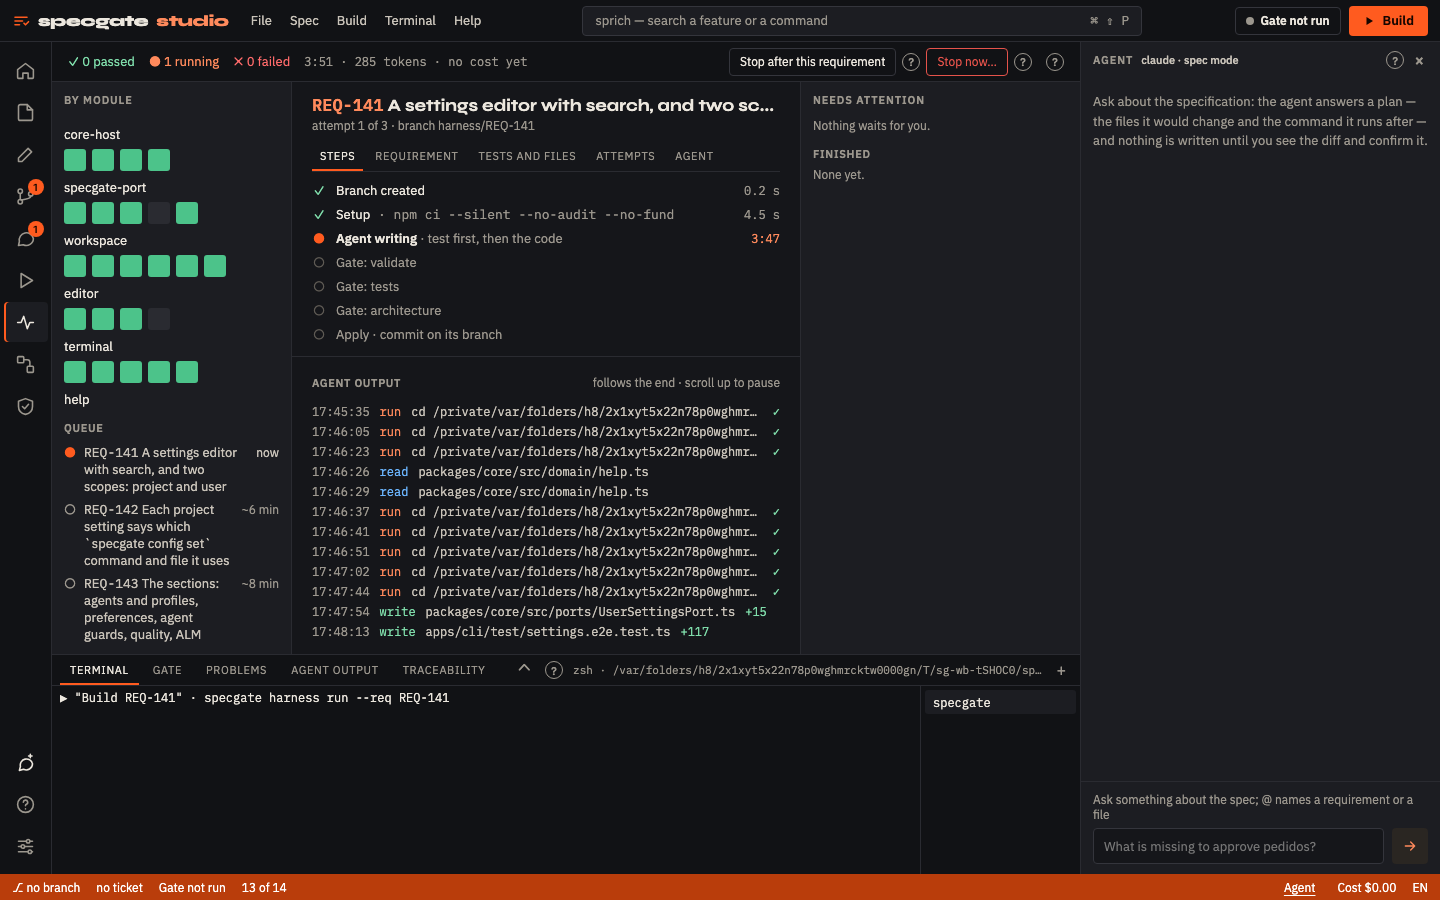
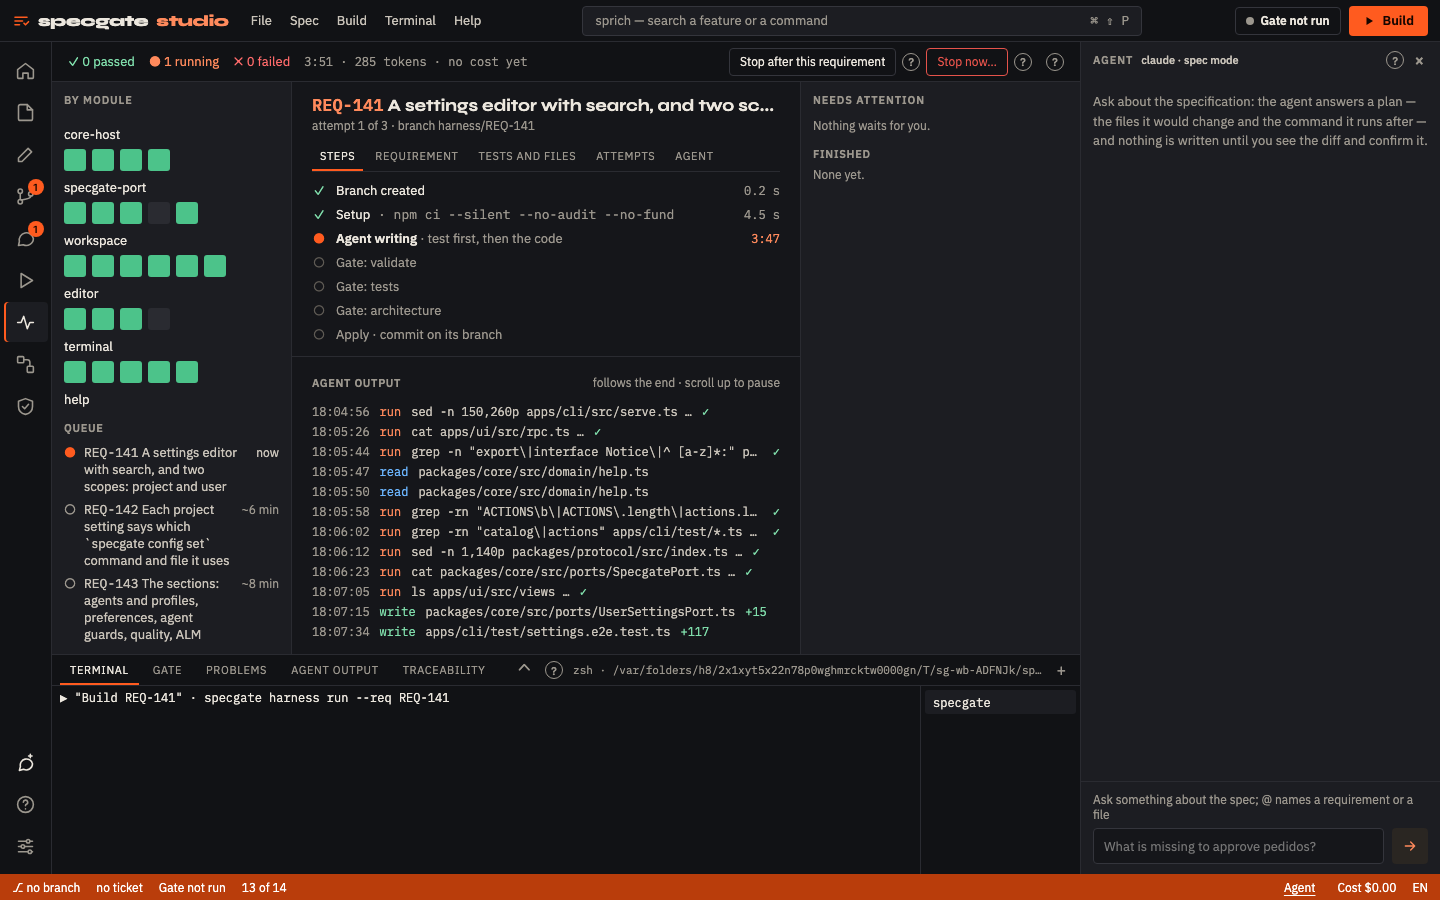
REQ-201: the agent's shell lines read as what ran — the worktree's cd and D= left out, its paths relative, a chain as its first command and …; the whole command on hover and expanded

diff --git a/packages/core/src/domain/live.ts b/packages/core/src/domain/live.ts
@@ -80,7 +80,10 @@ export interface LogLine {
   t: number;
   req: string;
   verb: string;
+  /** What it worked on, as it reads in one row: inside the worktree, relative; a chain, its first command and "…". */
   target: string;
+  /** The target as the agent wrote it, for the hover and the expanded line. */
+  full: string;
   result: "ok" | "error" | null;
   added: number | null;
   removed: number | null;
@@ -503,6 +506,65 @@ function verbOf(kind: string, tool: string): string | null {
 const count = (v: unknown): number | null =>
   typeof v === "number" && Number.isFinite(v) ? v : null;
 
+/** The requirement's worktree in a path or a command: specgate's `…/specgate-harness-REQ-141-e79ed237`. */
+const worktreeOf = (req: string) =>
+  new RegExp(`[^\\s'"=;&|<>]*specgate-harness-${req.replace(/[^\w-]/g, "")}-[0-9a-f]+`, "g");
+
+/** A command split at its top-level `&&`, `||`, `;` and `|`, quotes kept whole. */
+function parts(command: string): string[] {
+  const out: string[] = [];
+  let cur = "";
+  let quote: string | null = null;
+  for (let i = 0; i < command.length; i++) {
+    const c = command[i]!;
+    if (quote) {
+      if (c === "\\" && quote === '"') {
+        cur += c + (command[i + 1] ?? "");
+        i++;
+        continue;
+      }
+      if (c === quote) quote = null;
+      cur += c;
+    } else if (c === "'" || c === '"') {
+      quote = c;
+      cur += c;
+    } else if (c === ";" || c === "|" || (c === "&" && command[i + 1] === "&")) {
+      if (command[i + 1] === c) i++;
+      out.push(cur);
+      cur = "";
+    } else cur += c;
+  }
+  out.push(cur);
+  return out.map((p) => p.trim()).filter(Boolean);
+}
+
+/** A path inside the requirement's worktree, relative to it (A6). */
+export function relativeTarget(target: string, req: string): string {
+  return target.replace(new RegExp(`${worktreeOf(req).source}[\\\\/]?`, "g"), "") || ".";
+}
+
+/**
+ * A command as one readable row (A6): the worktree's own `cd <worktree> &&`
+ * and `D=<worktree>;` left out, paths inside it relative, and a chain shown
+ * as its first meaningful command and "…".
+ */
+export function shortCommand(command: string, req: string): string {
+  const ROOT = "\u0000";
+  let s = command.replace(worktreeOf(req), ROOT);
+  const first = s.split(/\r?\n/)[0]!;
+  const more = first !== s;
+  s = first;
+  const lead = new RegExp(
+    `^\\s*(?:[A-Za-z_]\\w*=${ROOT}|cd\\s+(?:${ROOT}|"?\\$\\{?[A-Za-z_]\\w*\\}?"?))\\s*$`,
+  );
+  const all = parts(s).filter((p) => !lead.test(p));
+  const shown = (all[0] ?? "")
+    .replace(new RegExp(`${ROOT}[\\\\/]`, "g"), "")
+    .replace(/"?\$\{?D\}?"?[\\/]/g, "")
+    .replace(new RegExp(ROOT, "g"), ".");
+  return all.length > 1 || more ? `${shown} …` : shown;
+}
+
 /** One event as a line of SALIDA DEL AGENTE (REQ-201), or null for one that is not an action. */
 export function logLineOf(req: string, e: HarnessEvent): LogLine | null {
   const t = num(e.t);
@@ -512,6 +574,7 @@ export function logLineOf(req: string, e: HarnessEvent): LogLine | null {
       req,
       verb: "ask",
       target: text(e.text),
+      full: text(e.text),
       result: null,
       added: null,
       removed: null,
@@ -525,7 +588,9 @@ export function logLineOf(req: string, e: HarnessEvent): LogLine | null {
     t,
     req,
     verb,
-    target: text(e.target),
+    target:
+      verb === "run" ? shortCommand(text(e.target), req) : relativeTarget(text(e.target), req),
+    full: text(e.target),
     result: e.result === "error" ? "error" : e.result === "ok" ? "ok" : null,
     // The counts specgate's events will carry (Q1, A7): shown once they are there.
     added: count(e.added),

diff --git a/packages/core/test/live-board.test.ts b/packages/core/test/live-board.test.ts
@@ -13,6 +13,8 @@ import {
   InMemoryHarnessEvents,
   foldLive,
   parseEvents,
+  relativeTarget,
+  shortCommand,
   type HarnessEvent,
   type LiveStage,
   type LiveStudio,
@@ -261,4 +263,55 @@ test("REQ-103: the studio's start feeds Rama creada, the queue's estimates come 
   assert.equal(live.requirements.find((x) => x.req === "REQ-030")!.maxAttempts, 5);
   s.harness.finish(0, { results: [{ requirement: "REQ-030", result: "pass" }] });
   await s.builds.close();
+});
+
+test("REQ-201 SCN-603: the demo's shell lines read as what ran — the worktree's cd and D= left out, its paths relative, a chain as its first command and …; the whole of it kept", () => {
+  const view = foldLive({ "REQ-141": RUN }, T0 - 1, studio({ building: null, queue: [] }));
+  const runs = view.log.filter((l) => l.verb === "run");
+  assert.ok(
+    runs.every((l) => !l.target.includes("specgate-harness-REQ-141")),
+    JSON.stringify(runs.filter((l) => l.target.includes("specgate-harness")).map((l) => l.target)),
+  );
+  const shown = runs.map((l) => l.target);
+  assert.ok(shown.includes("cat packages/core/src/ports/SpecgatePort.ts …"));
+  assert.ok(shown.includes("npm test"));
+  assert.ok(shown.some((t) => /^grep -rn "REQ-141\\|REQ-142\\|REQ-143" .* …$/.test(t)));
+  assert.ok(
+    shown.includes(
+      "cat docs/specs/changes/draft-settings/{assumptions.md,proposal.md,change.yaml,questions.md,specs/settings/spec.md} …",
+    ),
+    "D=<worktree>; then $D/… made relative",
+  );
+  const cd = runs.find((l) => l.target === "cat packages/core/src/ports/SpecgatePort.ts …")!;
+  assert.match(cd.full, /^cd \/private\/var\/folders\/.*specgate-harness-REQ-141-e79ed237; cat /);
+  // A file read inside the worktree, relative to it.
+  assert.ok(view.log.filter((l) => l.verb !== "run").every((l) => !l.target.startsWith("/")));
+});
+
+test("REQ-201: a command as one row — the worktree's own prefixes left out, Windows paths too; a plain command as it is", () => {
+  const root = "/private/var/folders/h8/x/T/specgate-harness-REQ-141-e79ed237";
+  assert.equal(
+    shortCommand(`cd ${root} && npm test -- settings`, "REQ-141"),
+    "npm test -- settings",
+  );
+  assert.equal(
+    shortCommand(`D=${root}; cd $D; grep -rn "REQ-141" packages | head -30`, "REQ-141"),
+    'grep -rn "REQ-141" packages …',
+  );
+  assert.equal(
+    shortCommand(`sed -n 1,40p ${root}/apps/ui/src/rpc.ts`, "REQ-141"),
+    "sed -n 1,40p apps/ui/src/rpc.ts",
+  );
+  assert.equal(
+    shortCommand(
+      `cd C:\\Users\\RUNNER~1\\AppData\\Local\\Temp\\specgate-harness-REQ-141-ab12; npm test`,
+      "REQ-141",
+    ),
+    "npm test",
+  );
+  assert.equal(shortCommand("npm run build", "REQ-141"), "npm run build");
+  assert.equal(
+    relativeTarget(`${root}/packages/core/src/index.ts`, "REQ-141"),
+    "packages/core/src/index.ts",
+  );
 });

diff --git a/apps/ui/src/views/Live.tsx b/apps/ui/src/views/Live.tsx
@@ -594,7 +594,7 @@ function AgentLog(props: { log: LogLine[]; t: T }) {
               data-req={l.req}
               data-result={l.result ?? undefined}
               aria-expanded={expanded}
-              title={l.target}
+              title={l.full}
               onClick={() =>
                 setOpen((o) => {
                   const next = new Set(o);
@@ -610,7 +610,7 @@ function AgentLog(props: { log: LogLine[]; t: T }) {
                 <span class="ltarget">{l.target}</span>
                 <LogTail l={l} t={t} />
               </div>
-              {expanded && <pre class="lfull">{l.target}</pre>}
+              {expanded && <pre class="lfull">{l.full}</pre>}
             </li>
           );
         })}

diff --git a/apps/cli/test/live-board.e2e.test.ts b/apps/cli/test/live-board.e2e.test.ts
@@ -457,9 +457,10 @@ test("REQ-201 SCN-603: in the browser, a 300-character command is one row `run l
     assert.ok(one <= 24, `one row, ${one}px`);
     assert.match((await logRows(page))[0]!, / run ls packages\//);
     assert.equal(await page.getAttribute(row, "title"), command);
-    assert.ok(
-      await page.$eval(`${row} .ltarget`, (el) => el.scrollWidth > el.clientWidth),
-      "cut with …",
+    assert.equal(
+      await text(page, `${row} .ltarget`),
+      "ls packages/* apps/* -d …",
+      "its first command and …",
     );
     await page.click(row);
     assert.equal(await text(page, `${row} .lfull`), command);

diff --git a/packages/core/src/index.ts b/packages/core/src/index.ts
@@ -198,6 +198,8 @@ export {
   foldLive,
   foldStages,
   logLineOf,
+  relativeTarget,
+  shortCommand,
   foldRequirement,
   foldUsage,
   liveQuestions,
